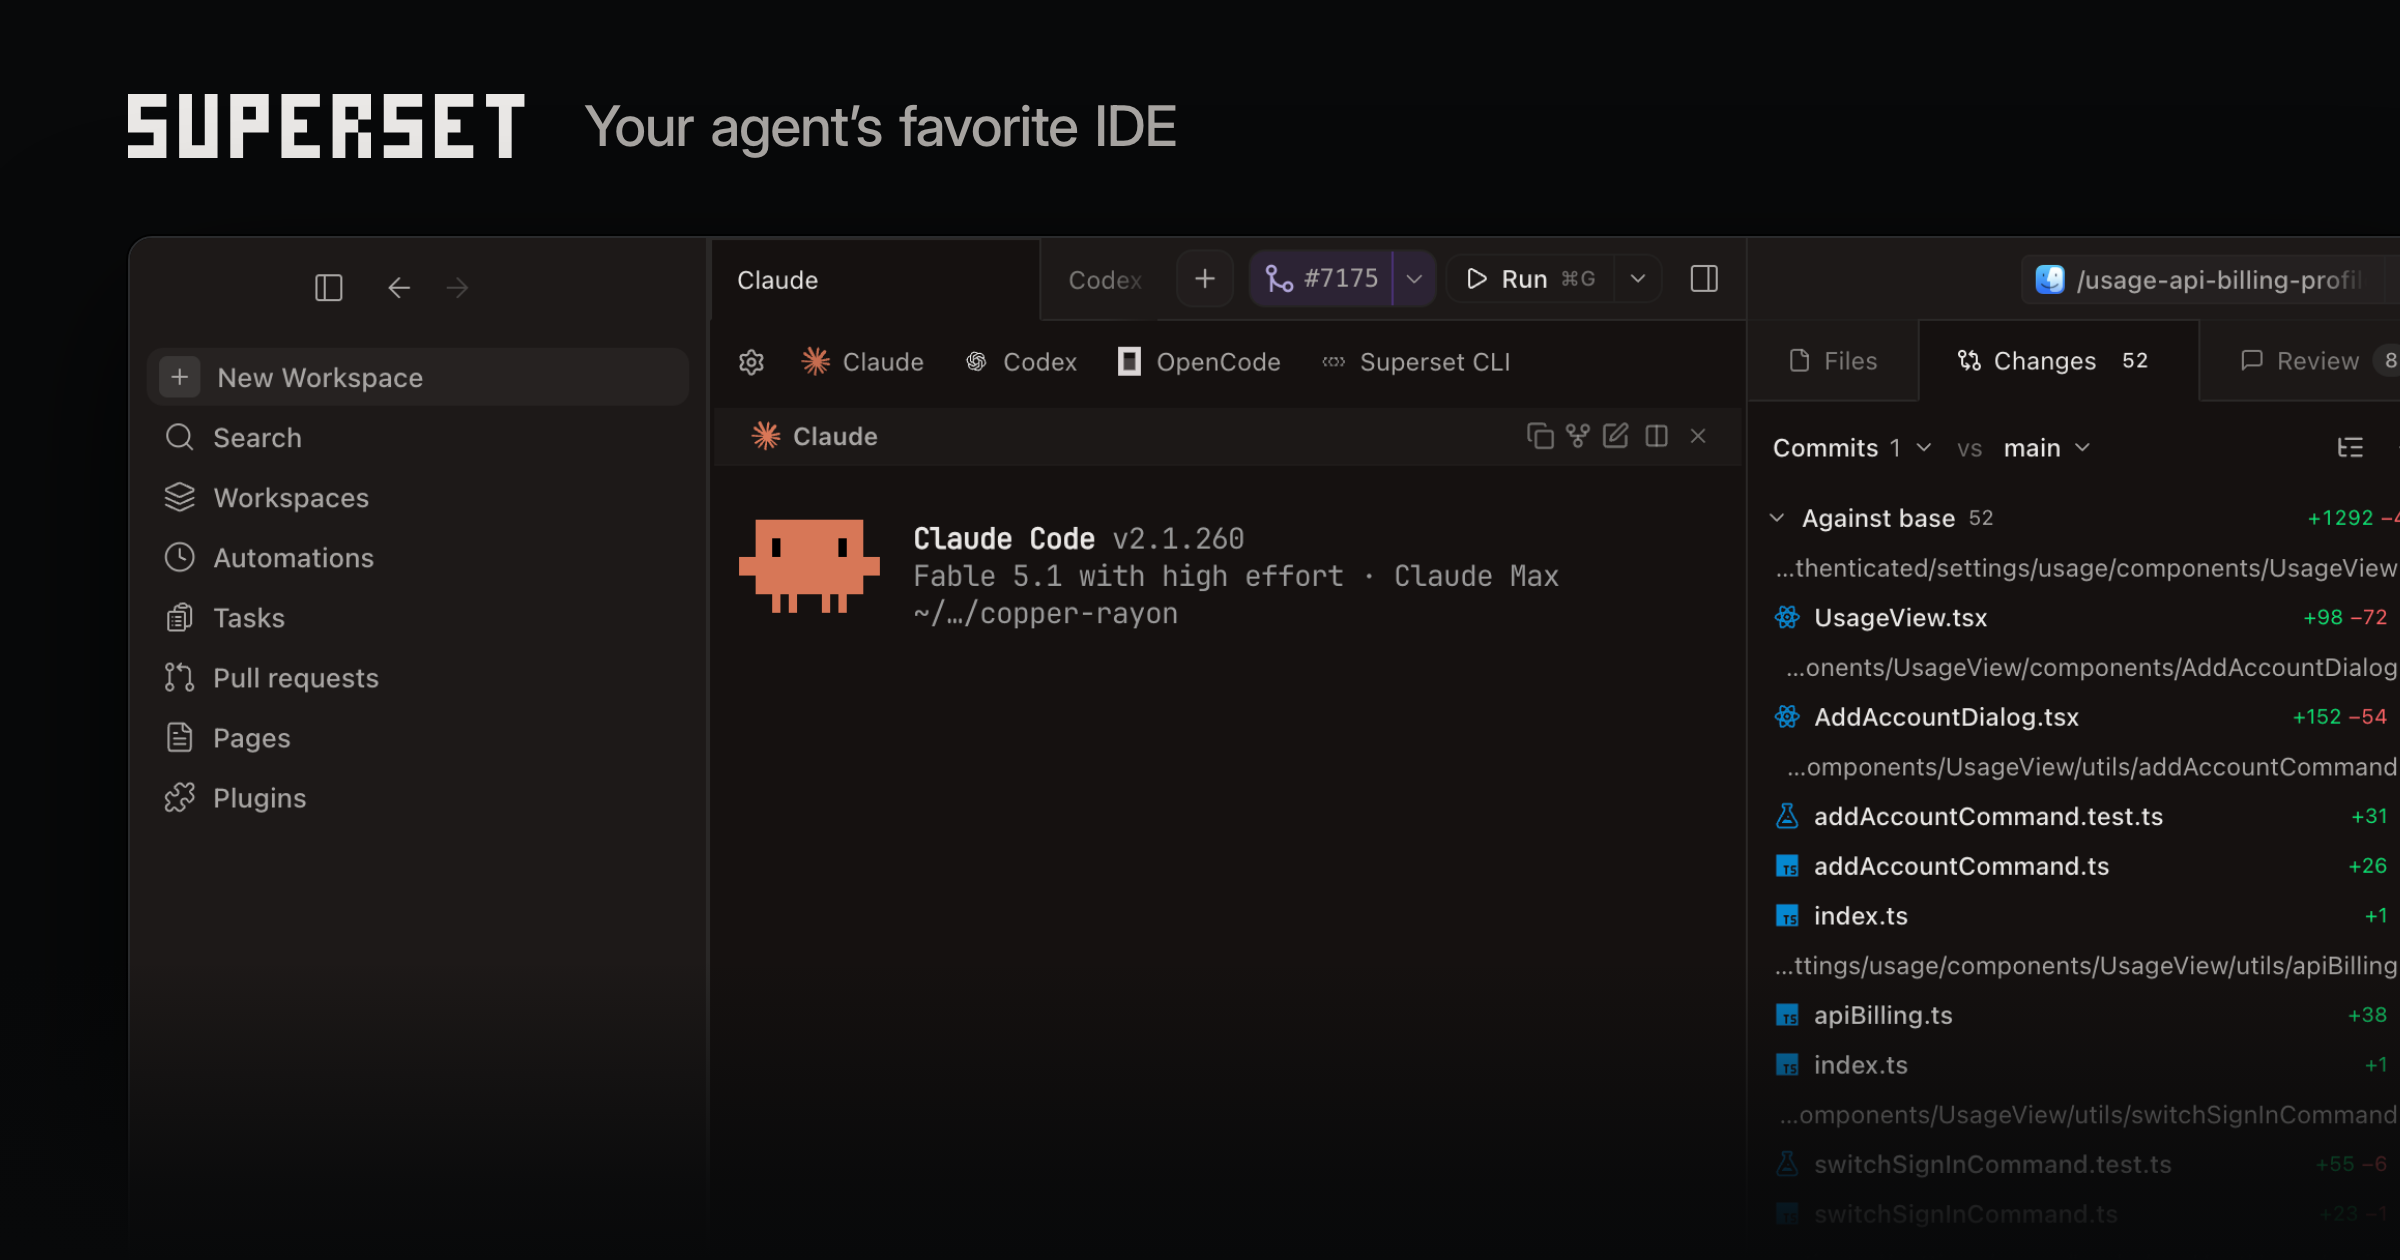
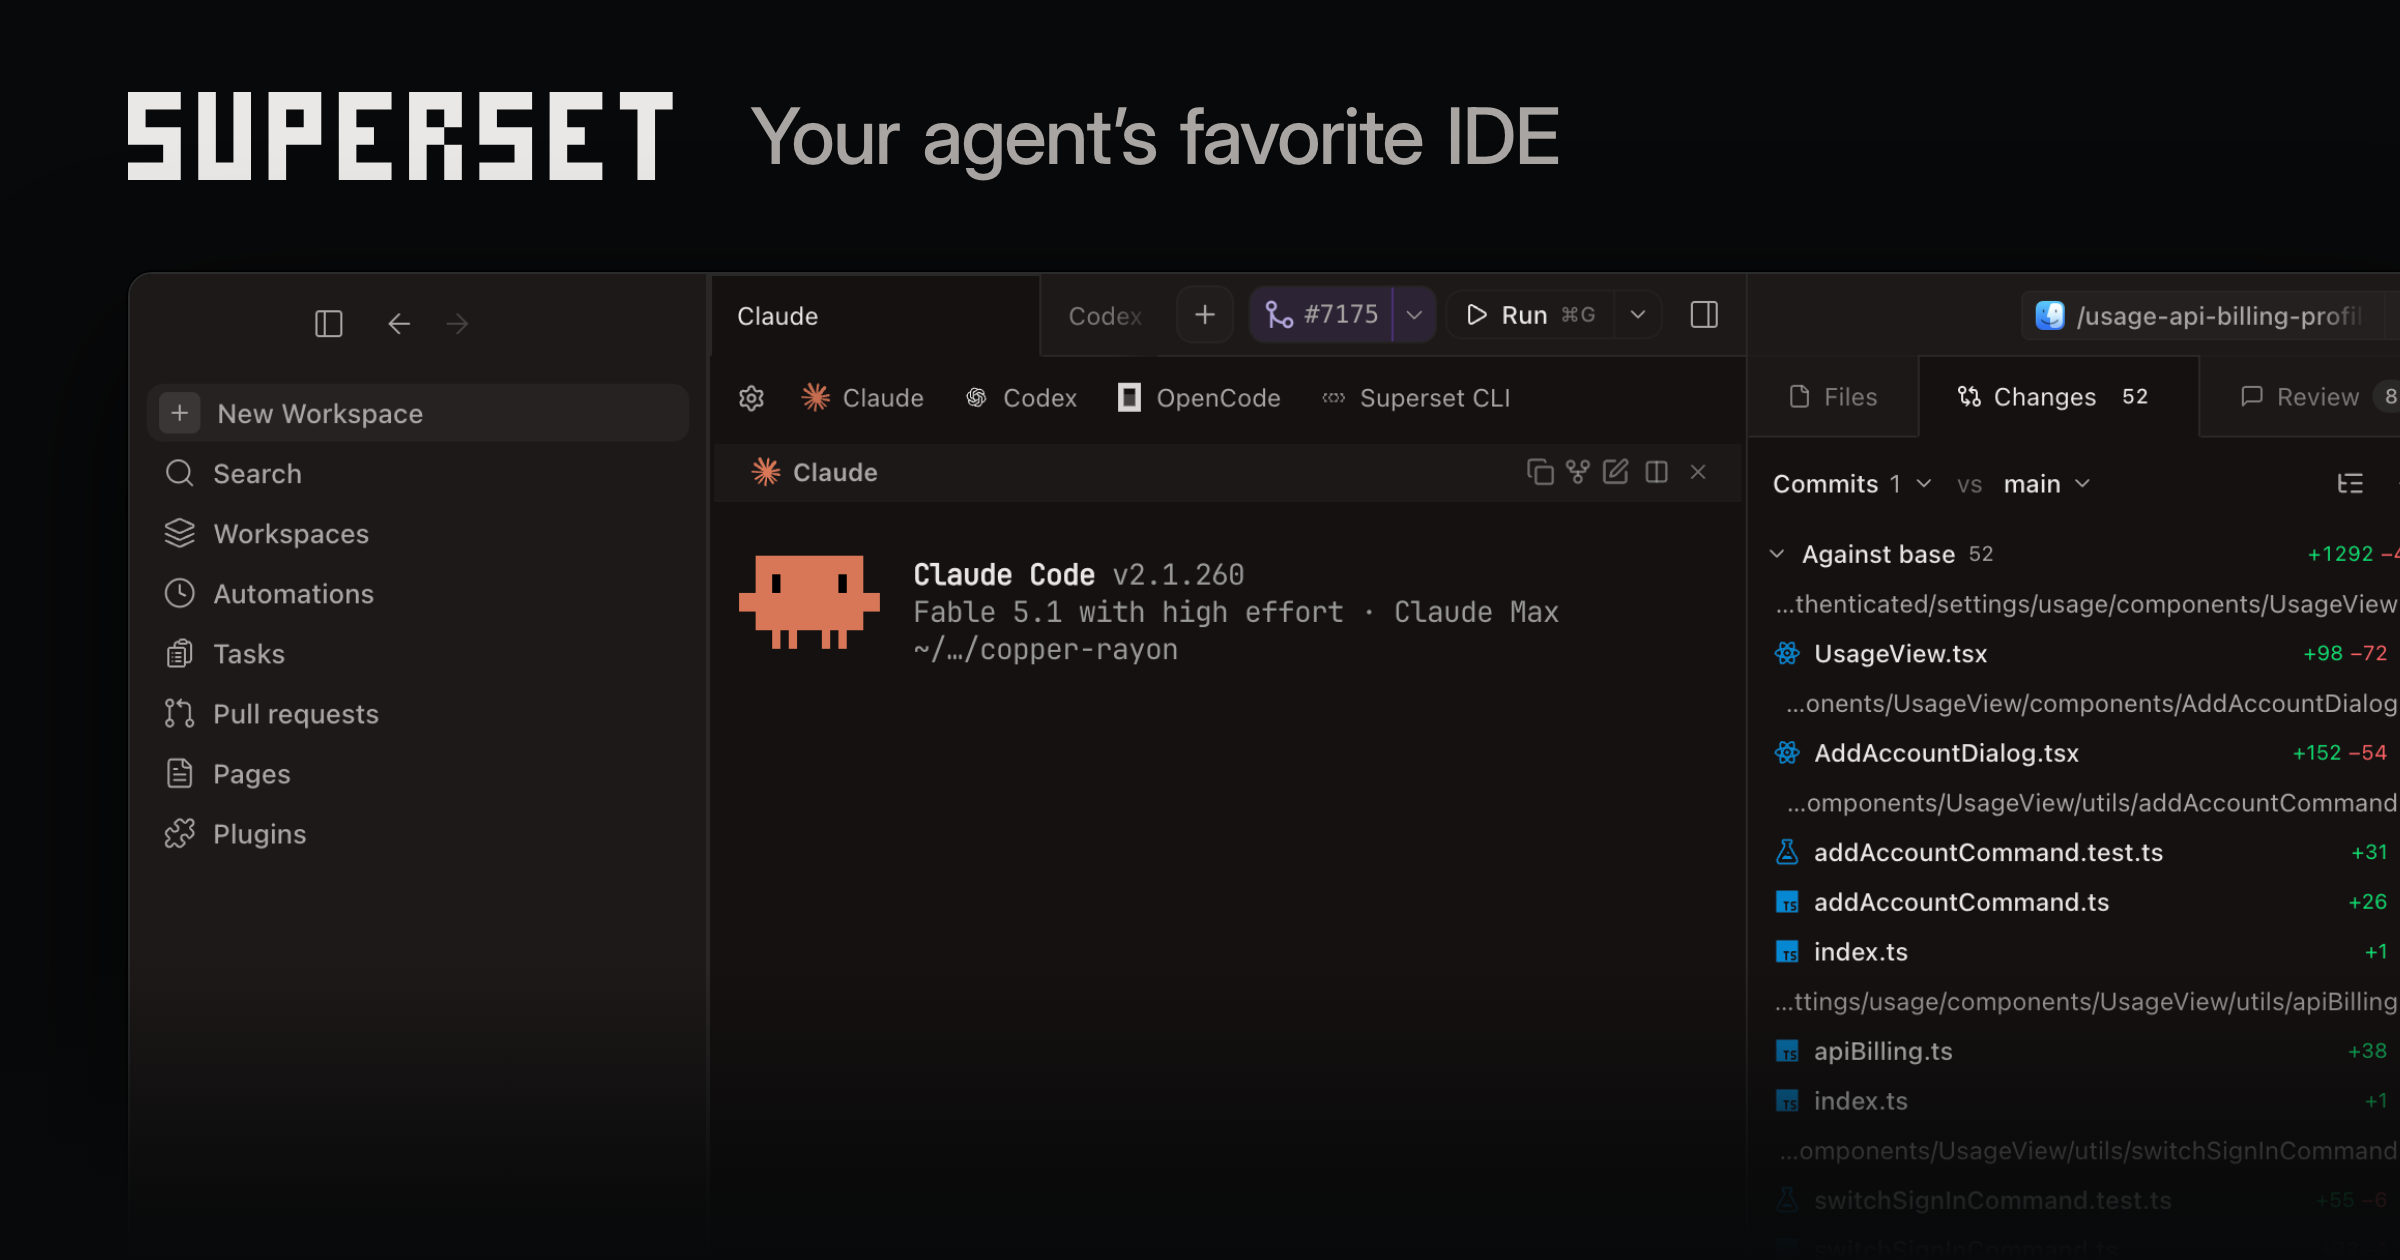
fix(marketing): enlarge the social preview wordmark and tagline

diff --git a/apps/marketing/scripts/og-image/og-image.html b/apps/marketing/scripts/og-image/og-image.html
@@ -7,10 +7,10 @@
 <style>
   html,body{margin:0;background:#08090a}
   body{width:1200px;height:630px;overflow:hidden;position:relative}
-  .head{position:absolute;left:64px;top:46px;display:flex;align-items:center;gap:22px}
-  .wm{height:32px;width:206px;display:block}
-  .head p{margin:0;font-family:Inter,ui-sans-serif,system-ui,sans-serif;font-feature-settings:"cv01","ss03";font-size:28px;font-weight:500;letter-spacing:-0.025em;word-spacing:.08em;color:#a8a5a2;-webkit-font-smoothing:antialiased}
-  .win{position:absolute;left:64px;top:118px;width:1160px;border-radius:12px 0 0 0;border:1px solid #2a2b2d;box-shadow:0 0 0 1px rgba(0,0,0,.7),0 30px 80px rgba(0,0,0,.7);overflow:hidden}
+  .head{position:absolute;left:64px;top:44px;display:flex;align-items:center;gap:28px}
+  .wm{height:44px;width:283px;display:block}
+  .head p{margin:0;font-family:Inter,ui-sans-serif,system-ui,sans-serif;font-feature-settings:"cv01","ss03";font-size:39px;font-weight:500;letter-spacing:-0.025em;word-spacing:.08em;color:#a8a5a2;-webkit-font-smoothing:antialiased}
+  .win{position:absolute;left:64px;top:136px;width:1160px;border-radius:12px 0 0 0;border:1px solid #2a2b2d;box-shadow:0 0 0 1px rgba(0,0,0,.7),0 30px 80px rgba(0,0,0,.7);overflow:hidden}
   .win img{display:block;width:100%;height:auto}
   .fade{position:absolute;left:0;right:0;bottom:0;height:150px;background:linear-gradient(180deg,rgba(8,9,10,0),rgba(8,9,10,.85) 75%,#08090a)}
 </style></head><body>
